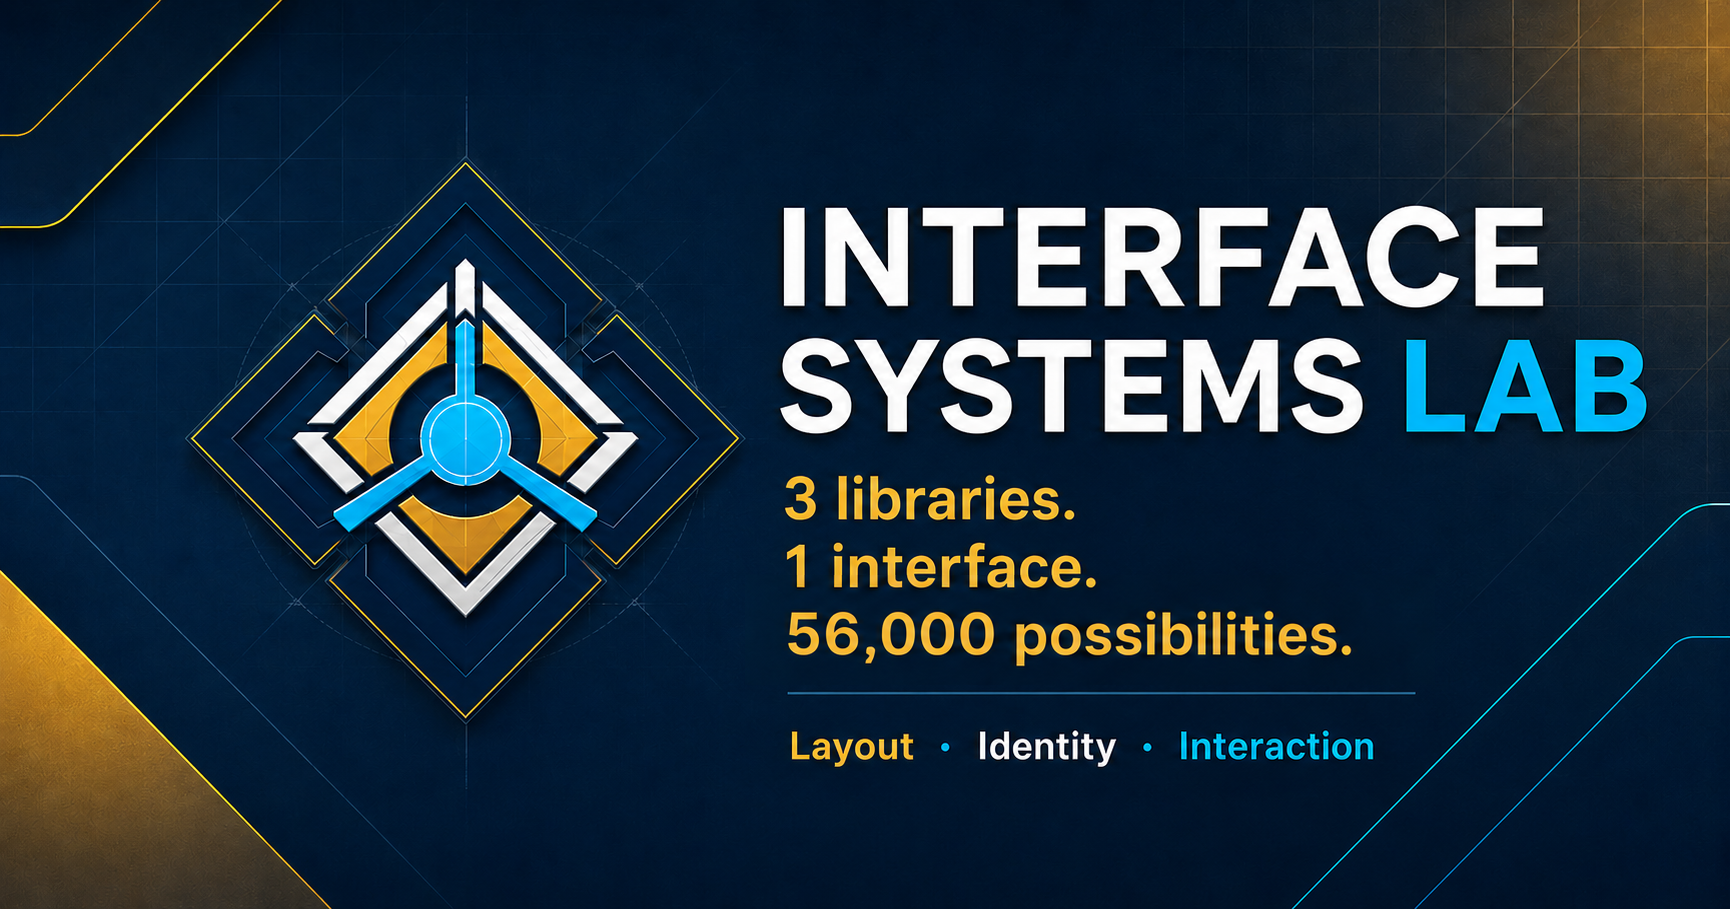
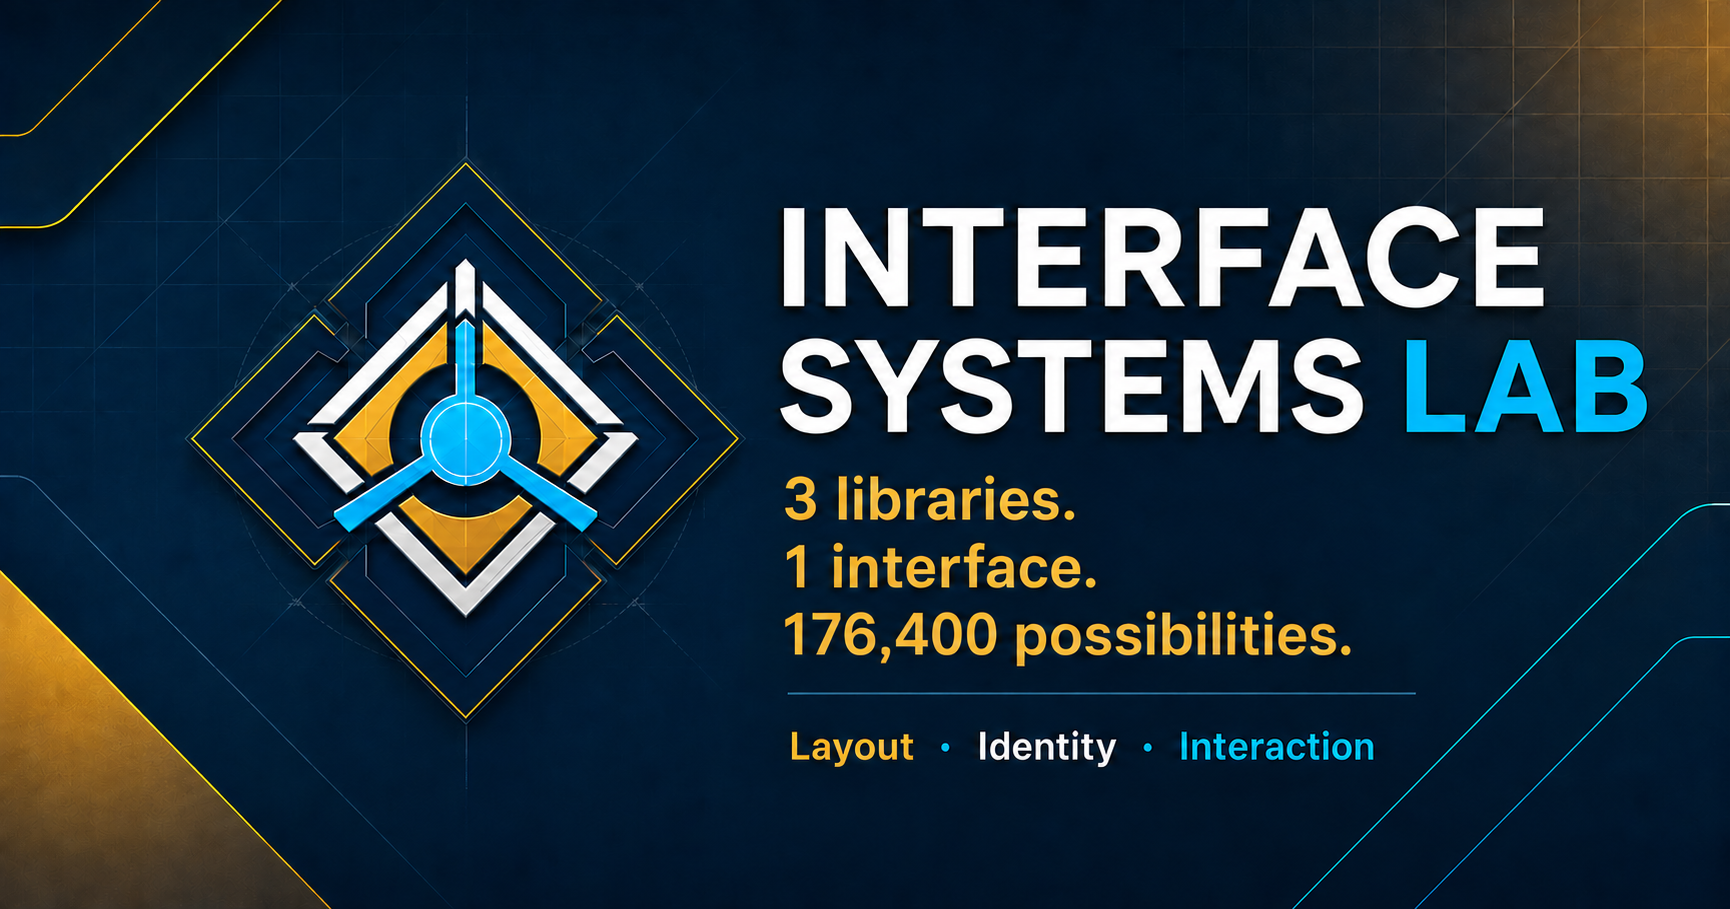
fix: correct supported combination total

diff --git a/app/data/atlas.ts b/app/data/atlas.ts
@@ -39,6 +39,9 @@ type UiAtlasManifest = {
 
 const publishedUiManifest = uiManifest as UiAtlasManifest;
 
+/** Layout Style CSS spacing-density settings supported by `data-ly-density`. */
+export const LAYOUT_DENSITIES = ["compact", "normal", "spacious"] as const;
+
 /**
  * Provides manifest-backed coverage lists for every contract represented by
  * the Component Atlas. Display modes remain available at runtime but are not
@@ -75,12 +78,22 @@ export const ATLAS_COVERAGE = Object.freeze({
   }),
 });
 
-/** Number of layout, recipe, visual-preset, and theme combinations. */
+/**
+ * Number of valid preset and color-scheme pairings. Each preset supports every
+ * shared theme plus its own native color scheme.
+ */
+const UI_COLOR_SCHEME_PAIRINGS =
+  ATLAS_COVERAGE.ui.presets.length * (ATLAS_COVERAGE.ui.themes.length + 1);
+
+/**
+ * Number of layout, recipe, density, visual-preset, and color-scheme
+ * combinations.
+ */
 export const SUPPORTED_COMBINATIONS =
   ATLAS_COVERAGE.layout.personalities.length *
   ATLAS_COVERAGE.layout.recipes.length *
-  ATLAS_COVERAGE.ui.presets.length *
-  ATLAS_COVERAGE.ui.themes.length;
+  LAYOUT_DENSITIES.length *
+  UI_COLOR_SCHEME_PAIRINGS;
 
 /** Locale-formatted combination count used in public product copy. */
 export const SUPPORTED_COMBINATIONS_LABEL =

diff --git a/tests/atlas-contract.test.ts b/tests/atlas-contract.test.ts
@@ -3,6 +3,7 @@ import test from "node:test";
 
 import {
   ATLAS_COVERAGE,
+  LAYOUT_DENSITIES,
   SUPPORTED_COMBINATIONS,
   SUPPORTED_COMBINATIONS_LABEL,
 } from "../app/data/atlas";
@@ -50,9 +51,16 @@ test("atlas coverage mirrors every published library contract", () => {
   );
 });
 
-test("possibility count multiplies configurable design choices but not modes", () => {
-  assert.equal(SUPPORTED_COMBINATIONS, 20 * 7 * 20 * 20);
-  assert.equal(SUPPORTED_COMBINATIONS, 56_000);
-  assert.equal(SUPPORTED_COMBINATIONS_LABEL, "56,000");
+test("possibility count includes densities and native color schemes", () => {
+  const sharedThemePairings = 20 * 20;
+  const nativeThemePairings = 20;
+
+  assert.deepEqual(LAYOUT_DENSITIES, ["compact", "normal", "spacious"]);
+  assert.equal(
+    SUPPORTED_COMBINATIONS,
+    20 * 7 * 3 * (sharedThemePairings + nativeThemePairings),
+  );
+  assert.equal(SUPPORTED_COMBINATIONS, 176_400);
+  assert.equal(SUPPORTED_COMBINATIONS_LABEL, "176,400");
   assert.equal("modes" in ATLAS_COVERAGE.ui, false);
 });

diff --git a/tests/three-library-contract.test.ts b/tests/three-library-contract.test.ts
@@ -34,12 +34,12 @@ test("the public ecosystem contains exactly the three CSS libraries", () => {
   assert.equal(ADOPTION_PATHS.length, 7);
 });
 
-test("the headline count excludes display modes from the combination total", () => {
+test("the headline count includes densities and native color schemes", () => {
   const homepage = readFileSync(`${repositoryRoot}/app/page.tsx`, "utf8");
 
-  assert.equal(SUPPORTED_COMBINATIONS_LABEL, "56,000");
+  assert.equal(SUPPORTED_COMBINATIONS_LABEL, "176,400");
   assert.match(homepage, /SUPPORTED_COMBINATIONS_LABEL/);
-  assert.equal(20 * 7 * 20 * 20, 56_000);
+  assert.equal(20 * 7 * 3 * (20 * 20 + 20), 176_400);
 });
 
 test("site identity exposes both STE destinations", () => {

diff --git a/app/lib/site.ts b/app/lib/site.ts
@@ -21,7 +21,7 @@ export const SITE = {
     "https://github.com/Sanderson-Technology-Enterprises/interface-systems-lab",
   socialImage: `${productionUrl}interface-systems-lab-social-card.png`,
   socialImageAlt:
-    "Interface Systems Lab social card with the text \u201c3 libraries, 1 interface, and 56,000 possibilities\u201d over layout, identity, and interaction.",
+    "Interface Systems Lab social card with the text \u201c3 libraries, 1 interface, and 176,400 possibilities\u201d over layout, identity, and interaction.",
   brandLogoPath: "android-chrome-512x512.png",
   brandLogo: `${productionUrl}android-chrome-512x512.png`,
   brandLogoAlt: "Interface Systems Lab logo",

diff --git a/tests/browser/site.spec.ts b/tests/browser/site.spec.ts
@@ -26,7 +26,7 @@ const repositoryUrl =
   "https://github.com/Sanderson-Technology-Enterprises/interface-systems-lab";
 const socialImageUrl = `${canonicalUrl}interface-systems-lab-social-card.png`;
 const socialImageAlt =
-  "Interface Systems Lab social card with the text \u201c3 libraries, 1 interface, and 56,000 possibilities\u201d over layout, identity, and interaction.";
+  "Interface Systems Lab social card with the text \u201c3 libraries, 1 interface, and 176,400 possibilities\u201d over layout, identity, and interaction.";
 const websiteId = `${canonicalUrl}#website`;
 const webpageId = `${canonicalUrl}#webpage`;
 const labWebpageId = `${labUrl}#webpage`;

diff --git a/app/page.tsx b/app/page.tsx
@@ -121,8 +121,9 @@ function LabInvitationSection() {
           <h2 id="lab-title">Configure once. Inspect every layer.</h2>
           <p>
             Explore {SUPPORTED_COMBINATIONS_LABEL} supported combinations across
-            layout personalities, recipes, visual styles, and themes. Built-in
-            display modes are not counted.
+            layout personalities, recipes, spacing densities, visual styles, and
+            shared or style-native color schemes. Built-in display modes are not
+            counted.
           </p>
         </div>
         <a

diff --git a/tests/ecosystem.test.ts b/tests/ecosystem.test.ts
@@ -875,7 +875,7 @@ test("site identity targets the transferred organization", () => {
   );
   assert.equal(
     site.socialImageAlt,
-    "Interface Systems Lab social card with the text \u201c3 libraries, 1 interface, and 56,000 possibilities\u201d over layout, identity, and interaction.",
+    "Interface Systems Lab social card with the text \u201c3 libraries, 1 interface, and 176,400 possibilities\u201d over layout, identity, and interaction.",
   );
   assert.equal(site.brandLogoPath, "android-chrome-512x512.png");
   assert.equal(
